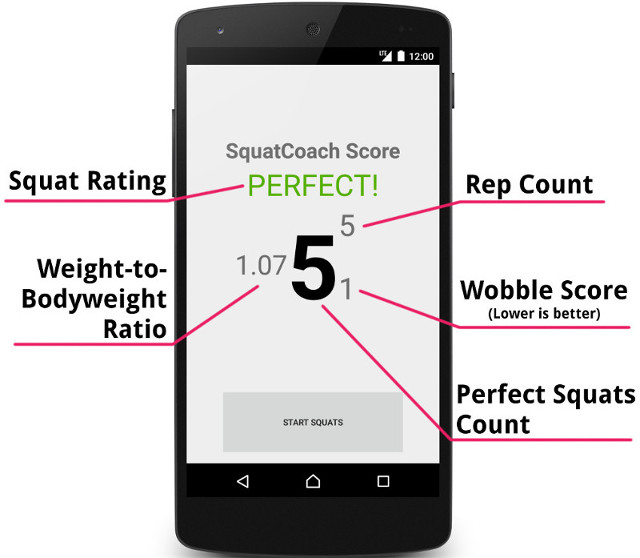
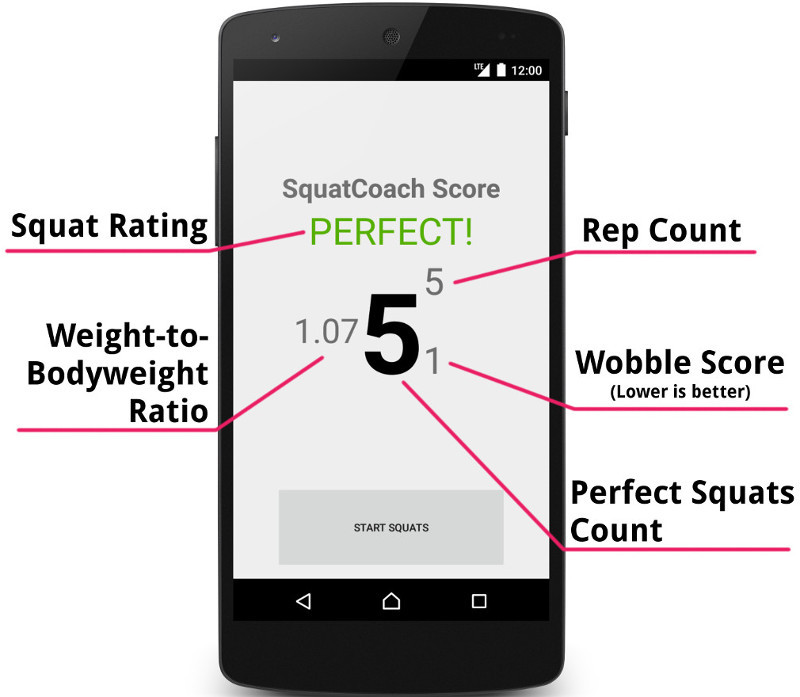
Responsify allthethings!
Also updated the carousel images to show iOS first, to balance out the page

diff --git a/index_1.html b/index_1.html
@@ -45,13 +45,13 @@
                                 <h1>SquatCoach teaches you how to squat with good form</h1>
                                 <p class="lead">Strap your phone on your thigh, and squat.<br> When you have good form, your phone vibrates.<br> It's that simple. </p>
                                 <div class="buttons">
-                                    <a><img src="img/appstore.svg" height="60"></a>
-                                    <a><img src="img/playstore.svg" height="60"></a>
+                                    <a><img class="img-responsive" src="img/appstore.svg" height="60"></a>
+                                    <a><img class="img-responsive" src="img/playstore.svg" height="60"></a>
                                 </div>
                             </div>
                         </div>
                         <div class="col-md-6 col-sm-6">
-                            <img src="img/hero-img.png" alt="Screenshot">
+                            <img class="img-responsive" src="img/hero-img.png" alt="Screenshot">
                             <!--
                             <div id="main-slider" class="flexslider">
                                 <ul class="slides">
@@ -91,9 +91,9 @@
                         <div class="col-md-5">
                             <div class="flexslider">
                             <ul class="slides">
-                                <li><img src="img/strapped.jpg" alt="Android Phone strapped to the thigh" style="border:10px solid #000000;"></li>
-                                <li><img src="img/strapped2.jpg" alt="iPhone strapped to the thigh" style="border:10px solid #000000;"></li>
-                                <li><img src="img/strapped3.jpg" alt="iPhone strapped to the thigh" style="border:10px solid #000000;"></li>
+                                <li><img class="img-responsive" src="img/strapped.jpg" alt="Android Phone strapped to the thigh" style="border:10px solid #000000;"></li>
+                                <li><img class="img-responsive" src="img/strapped2.jpg" alt="iPhone strapped to the thigh" style="border:10px solid #000000;"></li>
+                                <li><img class="img-responsive" src="img/strapped3.jpg" alt="iPhone strapped to the thigh" style="border:10px solid #000000;"></li>
                             </ul>
                             </div>
                         </div>
@@ -112,13 +112,11 @@
                         </div>
                     </div>
                     <div class="row">
-                        <div class="col-md-2">
+                        
+                        <div class="col-md-12">
+                            <img class="img-responsive" src="img/score-explanation.jpg" style="display:block;margin-right:auto; margin-left:auto;">
                         </div>
-                        <div class="col-md-4">
-                            <img src="img/score-explanation.jpg">
-                        </div>
-                        <div class="col-md-4">
-                        </div>
+                        
                     </div>
                 </div>
             </section>
@@ -187,7 +185,7 @@
                             <h2>What is A Good Squat Depth?</h2>
                             <p>A good squat depth is defined as when the hip crease is below the top of the knee-cap. The following image shows what that means:</p>
 
-                            <img src="img/squatdepth.jpg" alt="Good squat depth">
+                            <img class="img-responsive" src="img/squatdepth.jpg" alt="Good squat depth">
                             <p>Note that the hip crease, <span style="color:#ff0000;font-weight:bolder;">X</span> is actually lower than the knee-line <span style="color:#ff0000;font-weight:bolder;">A</span>.</p>
 
                             <p>The reason why proper squat depth is important is because if you don't hit this depth, you're actually putting a lot of weight on your quadriceps and your knees. Combined with the ascending motion of the latter part of the squat, the knee joints function to stop the momentum. This puts a lot of force on the knees, and could potentially lead to trauma.</p>
@@ -209,8 +207,8 @@
                 <div class="container">
                     <div class="row">
                         <div class="col-md-12">
-                            <h1>Are you ready to be a better version of you?</h1>
-                            <p class="lead">Get SquatCoach.</p>
+                            <h1>Be a better version of you</h1>
+                            <p class="lead">Get SquatCoach. Squat Deeper</p>
                             <a class="btn btn-1 btn-lg"><i class="fa fa-download icon"></i>App Store</a>
                             <a class="btn btn-1 btn-lg"><i class="fa fa-download icon"></i>Play Store</a>
                         </div>
@@ -234,13 +232,13 @@
                     <div class="row">
                         <div class="col-md-12">
                             <div id="owl-demo" class="owl-carousel">
-                                <div class="item"><img class="img-responsive" src="img/screenshots/1.png" alt="Android Screenshot of SquatCoach App 1"></div>
-                                <div class="item"><img class="img-responsive" src="img/screenshots/2.png" alt="Android Screenshot of SquatCoach App 2"></div>
-                                <div class="item"><img class="img-responsive" src="img/screenshots/3.png" alt="Android Screenshot of SquatCoach App 3"></div>
-
                                 <div class="item"><img class="img-responsive" src="img/screenshots/4.png" alt="iOS Screenshot of SquatCoach App 1"></div>
                                 <div class="item"><img class="img-responsive" src="img/screenshots/5.png" alt="iOS Screenshot of SquatCoach App 2"></div>
                                 <div class="item"><img class="img-responsive" src="img/screenshots/6.png" alt="Android Screenshot of SquatCoach App 3"></div>
+
+                                <div class="item"><img class="img-responsive" src="img/screenshots/1.png" alt="Android Screenshot of SquatCoach App 1"></div>
+                                <div class="item"><img class="img-responsive" src="img/screenshots/2.png" alt="Android Screenshot of SquatCoach App 2"></div>
+                                <div class="item"><img class="img-responsive" src="img/screenshots/3.png" alt="Android Screenshot of SquatCoach App 3"></div>
                             </div>
                         </div>
                     </div>
@@ -292,7 +290,7 @@
                             </p>
                             <p>
                                 <strong>Must I strap the phone to my thighs?</strong><br>
-                                Not really. When we first started testing this app, we found that a great many of our testers put their phones into their pockets as they squat. The phone still correctly vibrates when a good squat depth is achieved. However, we have found that the squat counts will no longer be accurate once you put the phone in the pocket. This is an area where we're actively working on to improve the experience.
+                                Not really. When we first started testing this app, we found that a great many of our testers hacked around by putting their phones in their pockets. The phone still correctly vibrates when a good squat depth is achieved. However, we have found that the squat counts will no longer be accurate once you put the phone in the pocket. This is an area where we're actively working on to improve the experience.
                             </p>
                             <p>
                                 <strong>How do I strap the phone to my thigh?</strong><br>
